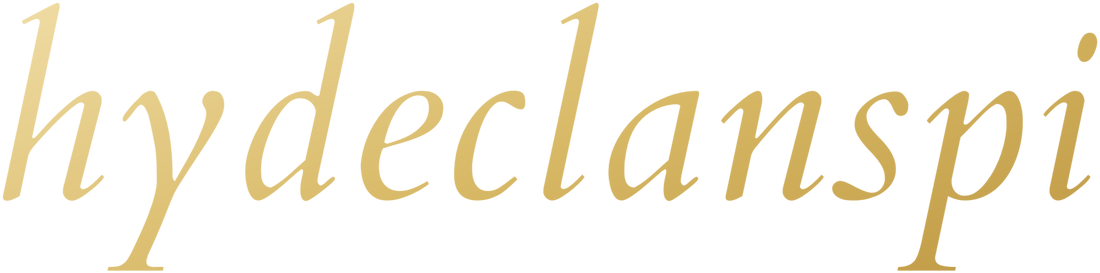
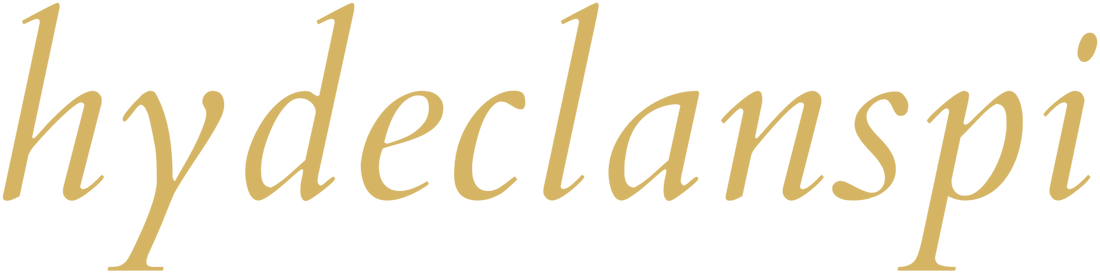
Workbench: refine the signature (v4.3.2)

Changed region(s): [[0.0, 0.0, 0.34, 0.7326], [0.8036, 0.9377, 0.8655, 0.9963]]

diff --git a/assets/app.css b/assets/app.css
@@ -1223,12 +1223,14 @@ input[type="search"]::-webkit-search-cancel-button { display: none; }
   background: var(--glass);
 }
 :root[data-theme="dark"] .about-shot { border-color: rgba(255, 255, 255, 0.16); box-shadow: 0 12px 28px rgba(0, 0, 0, 0.36); }
-/* 右下角落款：明暗两张亲笔图随主题换；与主标题同一抹金，直接落图不走 mask */
+/* 右下角落款：明暗两张亲笔图随主题换，普通金（标题的 #BD9A3E / #D5B564），直接落图不走 mask */
 .about-sign {
   grid-area: sign;
   justify-self: end;
   align-self: end;
-  width: 132px;
+  width: 152px;
+  margin-right: 10px;
+  margin-bottom: 18px;
 }
 .about-sign img { display: block; width: 100%; height: auto; }
 .about-sign .about-sign-dark { display: none; }
